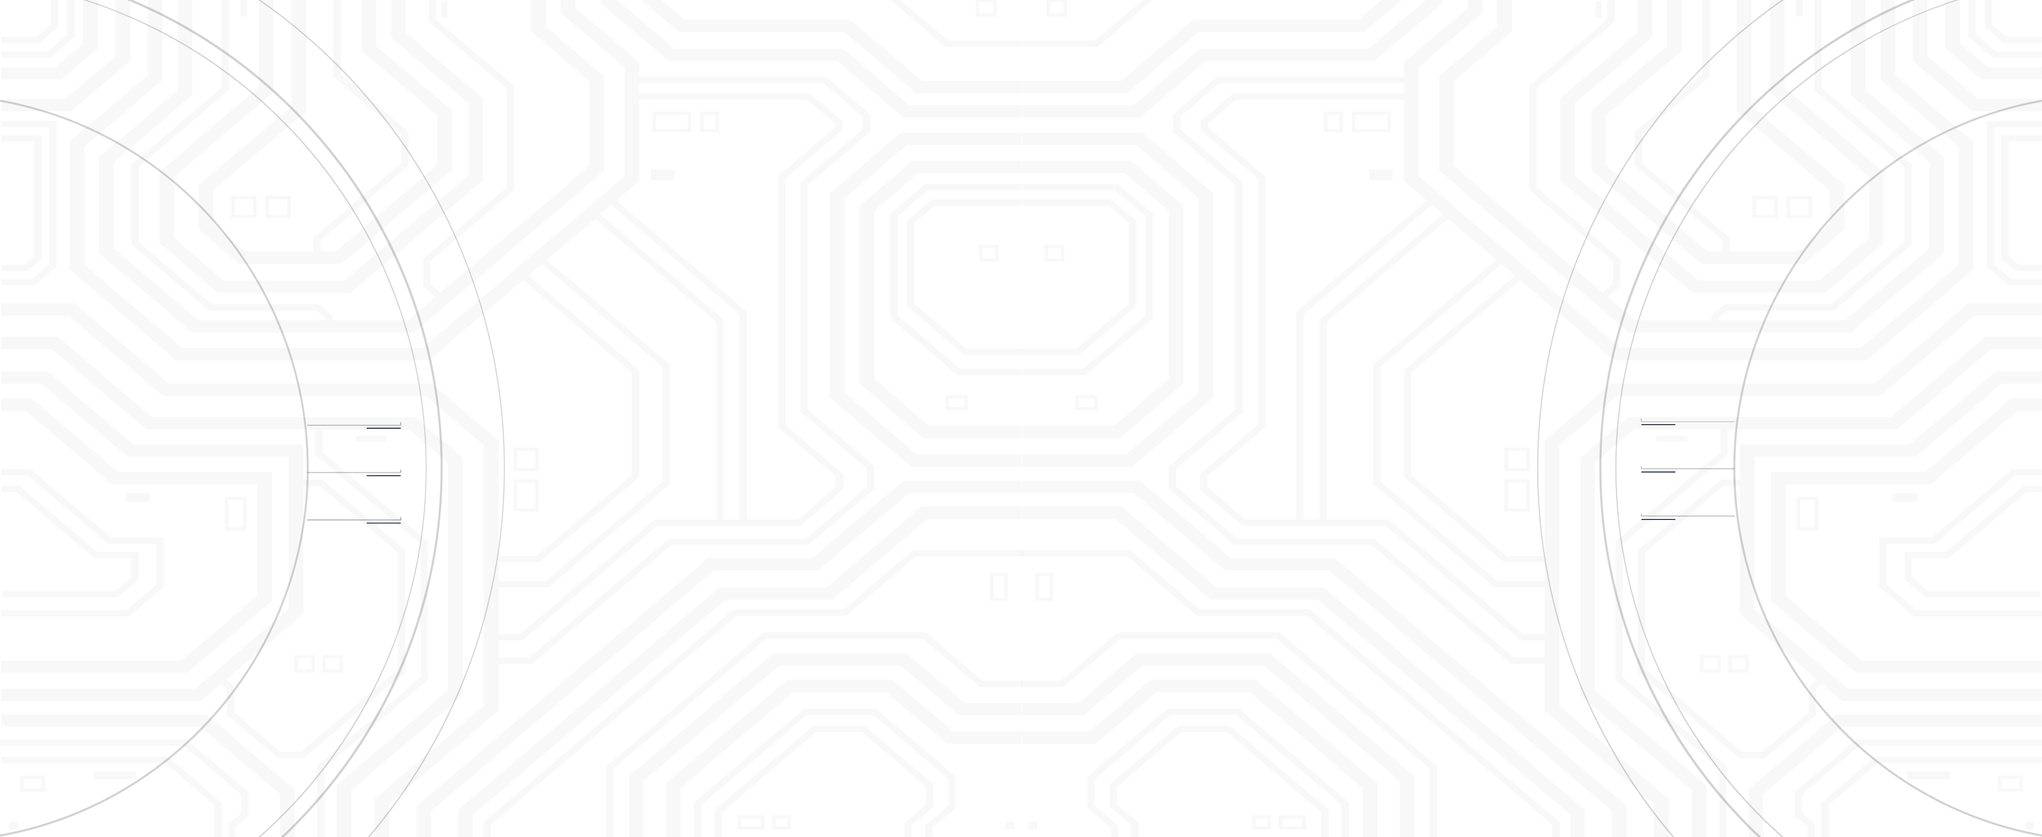
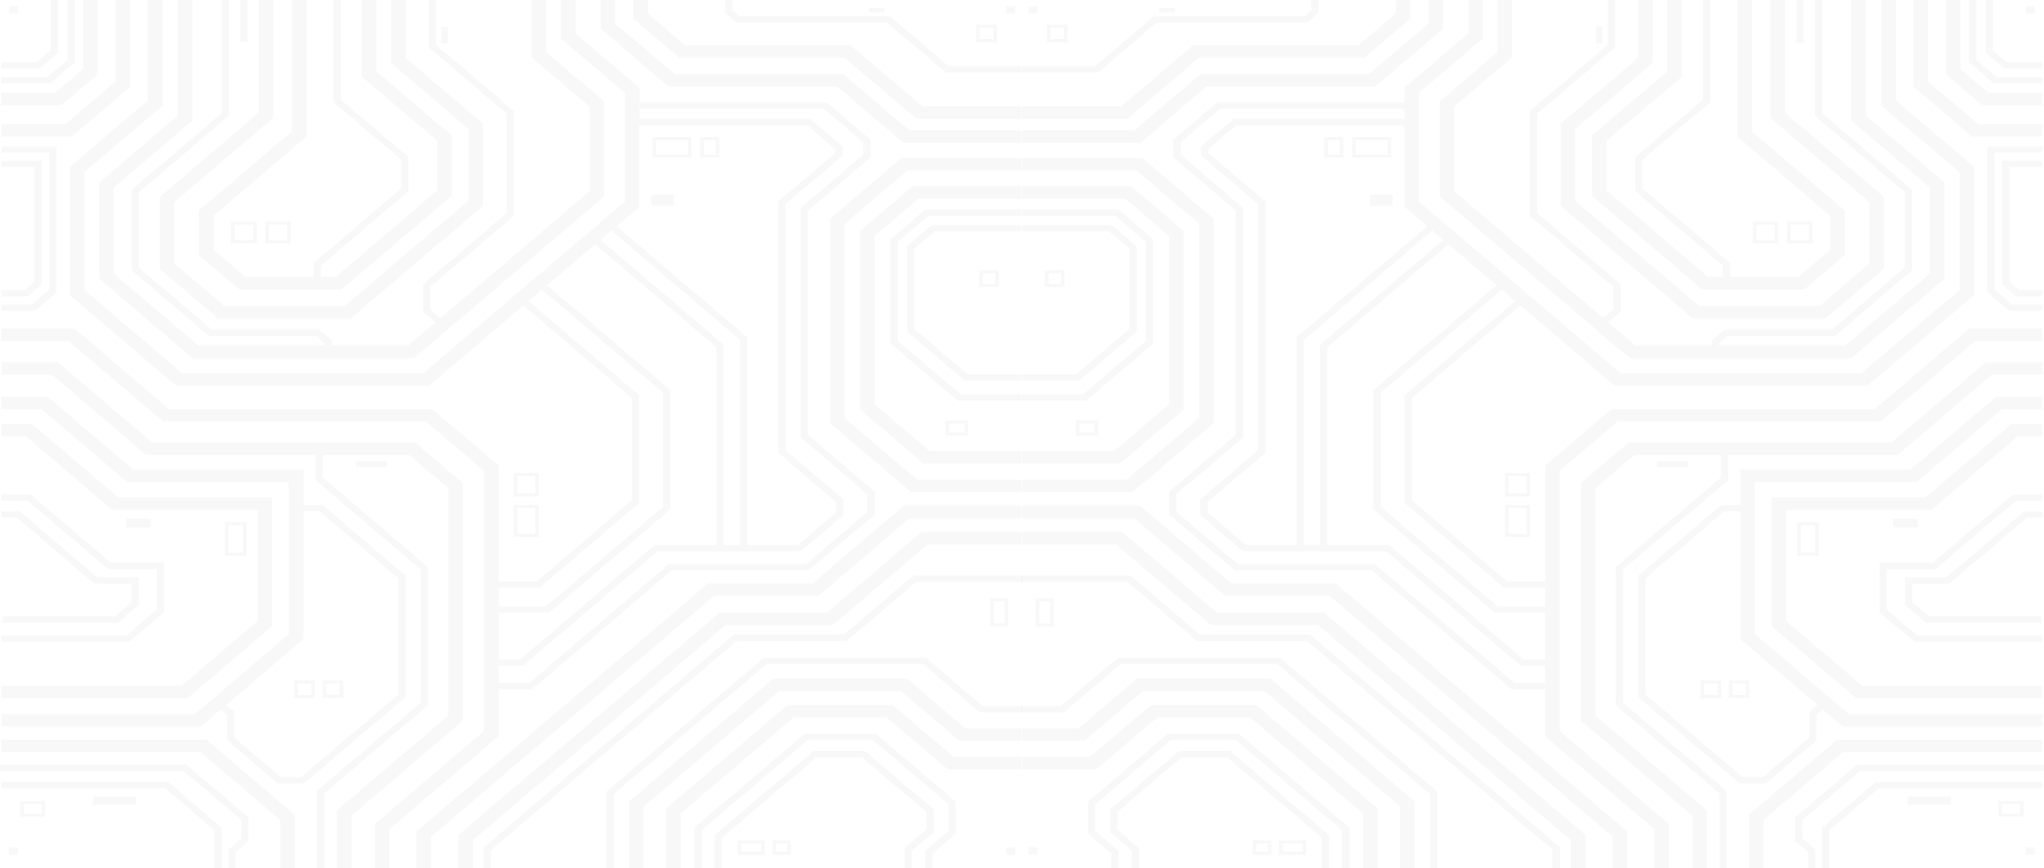
Update: Darkmode End User All

Changed region(s): [[0.9688, 0.9763, 1.0, 1.0], [0.0, 0.9763, 0.0312, 1.0]]

diff --git a/app/resources/js/Components/IconGuest.jsx b/app/resources/js/Components/IconGuest.jsx
@@ -263,46 +263,46 @@ export const LineOrnamenIcon = () => {
 export const WhiteBlueDotMerchIcon = () => {
     return (
         <svg width="53" height="153" viewBox="0 0 53 153" fill="none" xmlns="http://www.w3.org/2000/svg">
-            <rect width="3.21212" height="3.22105" transform="matrix(-1 0 0 1 53 0)" fill="white" />
-            <rect width="3.21212" height="3.22105" transform="matrix(-1 0 0 1 53 16.6421)" fill="white" />
-            <rect width="3.21212" height="3.22105" transform="matrix(-1 0 0 1 53 33.2842)" fill="white" />
-            <rect width="3.21212" height="3.22105" transform="matrix(-1 0 0 1 53 49.9263)" fill="white" />
-            <rect width="3.21212" height="3.22105" transform="matrix(-1 0 0 1 53 66.5684)" fill="white" />
-            <rect width="3.21212" height="3.22105" transform="matrix(-1 0 0 1 36.4041 0)" fill="white" />
-            <rect width="3.21212" height="3.22105" transform="matrix(-1 0 0 1 36.4041 16.6421)" fill="white" />
-            <rect width="3.21212" height="3.22105" transform="matrix(-1 0 0 1 36.4041 33.2842)" fill="white" />
-            <rect width="3.21212" height="3.22105" transform="matrix(-1 0 0 1 36.4041 49.9263)" fill="white" />
-            <rect width="3.21212" height="3.22105" transform="matrix(-1 0 0 1 36.4041 66.5684)" fill="white" />
-            <rect width="3.21212" height="3.22105" transform="matrix(-1 0 0 1 19.8081 0)" fill="white" />
-            <rect width="3.21212" height="3.22105" transform="matrix(-1 0 0 1 19.8081 16.6421)" fill="white" />
-            <rect width="3.21212" height="3.22105" transform="matrix(-1 0 0 1 19.8081 33.2842)" fill="white" />
-            <rect width="3.21212" height="3.22105" transform="matrix(-1 0 0 1 19.8081 49.9263)" fill="white" />
-            <rect width="3.21212" height="3.22105" transform="matrix(-1 0 0 1 19.8081 66.5684)" fill="white" />
-            <rect width="3.21212" height="3.22105" transform="matrix(-1 0 0 1 3.2121 0)" fill="white" />
-            <rect width="3.21212" height="3.22105" transform="matrix(-1 0 0 1 3.2121 16.6421)" fill="white" />
-            <rect width="3.21212" height="3.22105" transform="matrix(-1 0 0 1 3.2121 33.2842)" fill="white" />
-            <rect width="3.21212" height="3.22105" transform="matrix(-1 0 0 1 3.2121 49.9263)" fill="white" />
-            <rect width="3.21212" height="3.22105" transform="matrix(-1 0 0 1 3.2121 66.5684)" fill="white" />
-            <rect width="3.21212" height="3.22105" transform="matrix(-1 0 0 1 53 83.2105)" fill="white" />
-            <rect width="3.21212" height="3.22105" transform="matrix(-1 0 0 1 53 99.8527)" fill="white" />
-            <rect width="3.21212" height="3.22105" transform="matrix(-1 0 0 1 53 116.495)" fill="white" />
-            <rect width="3.21212" height="3.22105" transform="matrix(-1 0 0 1 53 133.137)" fill="white" />
-            <rect width="3.21212" height="3.22105" transform="matrix(-1 0 0 1 53 149.779)" fill="white" />
-            <rect width="3.21212" height="3.22105" transform="matrix(-1 0 0 1 36.4041 83.2105)" fill="white" />
-            <rect width="3.21212" height="3.22105" transform="matrix(-1 0 0 1 36.4041 99.8527)" fill="white" />
-            <rect width="3.21212" height="3.22105" transform="matrix(-1 0 0 1 36.4041 116.495)" fill="white" />
-            <rect width="3.21212" height="3.22105" transform="matrix(-1 0 0 1 36.4041 133.137)" fill="white" />
-            <rect width="3.21212" height="3.22105" transform="matrix(-1 0 0 1 36.4041 149.779)" fill="white" />
-            <rect width="3.21212" height="3.22105" transform="matrix(-1 0 0 1 19.8081 83.2105)" fill="white" />
-            <rect width="3.21212" height="3.22105" transform="matrix(-1 0 0 1 19.8081 99.8527)" fill="white" />
-            <rect width="3.21212" height="3.22105" transform="matrix(-1 0 0 1 19.8081 116.495)" fill="white" />
-            <rect width="3.21212" height="3.22105" transform="matrix(-1 0 0 1 19.8081 133.137)" fill="white" />
-            <rect width="3.21212" height="3.22105" transform="matrix(-1 0 0 1 19.8081 149.779)" fill="white" />
-            <rect width="3.21212" height="3.22105" transform="matrix(-1 0 0 1 3.2121 83.2105)" fill="white" />
-            <rect width="3.21212" height="3.22105" transform="matrix(-1 0 0 1 3.2121 99.8527)" fill="white" />
-            <rect width="3.21212" height="3.22105" transform="matrix(-1 0 0 1 3.2121 116.495)" fill="white" />
-            <rect width="3.21212" height="3.22105" transform="matrix(-1 0 0 1 3.2121 133.137)" fill="white" />
-            <rect width="3.21212" height="3.22105" transform="matrix(-1 0 0 1 3.2121 149.779)" fill="white" />
+            <rect width="3.21212" height="3.22105" transform="matrix(-1 0 0 1 53 0)" fill="currentColor" />
+            <rect width="3.21212" height="3.22105" transform="matrix(-1 0 0 1 53 16.6421)" fill="currentColor" />
+            <rect width="3.21212" height="3.22105" transform="matrix(-1 0 0 1 53 33.2842)" fill="currentColor" />
+            <rect width="3.21212" height="3.22105" transform="matrix(-1 0 0 1 53 49.9263)" fill="currentColor" />
+            <rect width="3.21212" height="3.22105" transform="matrix(-1 0 0 1 53 66.5684)" fill="currentColor" />
+            <rect width="3.21212" height="3.22105" transform="matrix(-1 0 0 1 36.4041 0)" fill="currentColor" />
+            <rect width="3.21212" height="3.22105" transform="matrix(-1 0 0 1 36.4041 16.6421)" fill="currentColor" />
+            <rect width="3.21212" height="3.22105" transform="matrix(-1 0 0 1 36.4041 33.2842)" fill="currentColor" />
+            <rect width="3.21212" height="3.22105" transform="matrix(-1 0 0 1 36.4041 49.9263)" fill="currentColor" />
+            <rect width="3.21212" height="3.22105" transform="matrix(-1 0 0 1 36.4041 66.5684)" fill="currentColor" />
+            <rect width="3.21212" height="3.22105" transform="matrix(-1 0 0 1 19.8081 0)" fill="currentColor" />
+            <rect width="3.21212" height="3.22105" transform="matrix(-1 0 0 1 19.8081 16.6421)" fill="currentColor" />
+            <rect width="3.21212" height="3.22105" transform="matrix(-1 0 0 1 19.8081 33.2842)" fill="currentColor" />
+            <rect width="3.21212" height="3.22105" transform="matrix(-1 0 0 1 19.8081 49.9263)" fill="currentColor" />
+            <rect width="3.21212" height="3.22105" transform="matrix(-1 0 0 1 19.8081 66.5684)" fill="currentColor" />
+            <rect width="3.21212" height="3.22105" transform="matrix(-1 0 0 1 3.2121 0)" fill="currentColor" />
+            <rect width="3.21212" height="3.22105" transform="matrix(-1 0 0 1 3.2121 16.6421)" fill="currentColor" />
+            <rect width="3.21212" height="3.22105" transform="matrix(-1 0 0 1 3.2121 33.2842)" fill="currentColor" />
+            <rect width="3.21212" height="3.22105" transform="matrix(-1 0 0 1 3.2121 49.9263)" fill="currentColor" />
+            <rect width="3.21212" height="3.22105" transform="matrix(-1 0 0 1 3.2121 66.5684)" fill="currentColor" />
+            <rect width="3.21212" height="3.22105" transform="matrix(-1 0 0 1 53 83.2105)" fill="currentColor" />
+            <rect width="3.21212" height="3.22105" transform="matrix(-1 0 0 1 53 99.8527)" fill="currentColor" />
+            <rect width="3.21212" height="3.22105" transform="matrix(-1 0 0 1 53 116.495)" fill="currentColor" />
+            <rect width="3.21212" height="3.22105" transform="matrix(-1 0 0 1 53 133.137)" fill="currentColor" />
+            <rect width="3.21212" height="3.22105" transform="matrix(-1 0 0 1 53 149.779)" fill="currentColor" />
+            <rect width="3.21212" height="3.22105" transform="matrix(-1 0 0 1 36.4041 83.2105)" fill="currentColor" />
+            <rect width="3.21212" height="3.22105" transform="matrix(-1 0 0 1 36.4041 99.8527)" fill="currentColor" />
+            <rect width="3.21212" height="3.22105" transform="matrix(-1 0 0 1 36.4041 116.495)" fill="currentColor" />
+            <rect width="3.21212" height="3.22105" transform="matrix(-1 0 0 1 36.4041 133.137)" fill="currentColor" />
+            <rect width="3.21212" height="3.22105" transform="matrix(-1 0 0 1 36.4041 149.779)" fill="currentColor" />
+            <rect width="3.21212" height="3.22105" transform="matrix(-1 0 0 1 19.8081 83.2105)" fill="currentColor" />
+            <rect width="3.21212" height="3.22105" transform="matrix(-1 0 0 1 19.8081 99.8527)" fill="currentColor" />
+            <rect width="3.21212" height="3.22105" transform="matrix(-1 0 0 1 19.8081 116.495)" fill="currentColor" />
+            <rect width="3.21212" height="3.22105" transform="matrix(-1 0 0 1 19.8081 133.137)" fill="currentColor" />
+            <rect width="3.21212" height="3.22105" transform="matrix(-1 0 0 1 19.8081 149.779)" fill="currentColor" />
+            <rect width="3.21212" height="3.22105" transform="matrix(-1 0 0 1 3.2121 83.2105)" fill="currentColor" />
+            <rect width="3.21212" height="3.22105" transform="matrix(-1 0 0 1 3.2121 99.8527)" fill="currentColor" />
+            <rect width="3.21212" height="3.22105" transform="matrix(-1 0 0 1 3.2121 116.495)" fill="currentColor" />
+            <rect width="3.21212" height="3.22105" transform="matrix(-1 0 0 1 3.2121 133.137)" fill="currentColor" />
+            <rect width="3.21212" height="3.22105" transform="matrix(-1 0 0 1 3.2121 149.779)" fill="currentColor" />
         </svg>
     );
 }

diff --git a/app/resources/js/Pages/Landing/Welcome.jsx b/app/resources/js/Pages/Landing/Welcome.jsx
@@ -10,6 +10,8 @@ import { Button } from "@/Components/ui/button";
 import { SideLeftArrowLeftIcon, SideLeftCrookedCrossIcon, SideRightBlueDotIcon, SideRightCrossIcon, WhiteBlueDotMerchIcon } from "@/Components/IconGuest";
 import { motion } from 'framer-motion';
 import { XMarkIcon } from "@heroicons/react/24/solid";
+import * as AOS from 'aos';
+import 'aos/dist/aos.css';
 
 export default function Welcome() {
     const [isPopupOpen, setIsPopupOpen] = useState(false);
@@ -22,17 +24,44 @@ export default function Welcome() {
 
     }, []);
 
+    useEffect(() => {
+        AOS.init({
+            duration: 800,
+            once: false,
+            easing: 'ease-out-cubic',
+            offset: 100,
+            delay: 0,
+            mirror: false,
+            anchorPlacement: 'top-bottom',
+        });
+    }, []);
+
     const closeModal = () => {
         setIsPopupOpen(false);
     };
 
     return (
         <>
-            <Modal show={isPopupOpen} onClose={closeModal} className="px-12 py-12 bg-gradient-to-b from-[#0F114C] to-[#00658F] border-white border-2 relative flex flex-row justify-evenly" maxWidth="4xl">
+            <Modal show={isPopupOpen} onClose={closeModal} className="md:px-12 px-2 md:py-12 py-5 dark:border-white dark:border-2 border-2 relative flex md:flex-row flex-col justify-evenly dark:bg-gradient-to-b dark:from-[#040529] dark:to-[#0F114C]/90" maxWidth="4xl">
+                <img
+                    src="assets/images/bg_ornament.png"
+                    alt="banner"
+                    className="absolute z-0 w-auto object-center rounded-none h-[800px] object-cover hidden md:block top-0"
+                />
+                <img
+                    src="assets/images/bg_circle_ornamen_side_left.png"
+                    alt="banner"
+                    className="absolute z-0 rounded-none w-1/2 h-auto object-cover hidden md:block top-0 left-0 opacity-40"
+                />
+                <img
+                    src="assets/images/bg_circle_ornamen_darkmode_sideleft.png"
+                    alt="banner"
+                    className="absolute z-0 rounded-none w-1/2 h-auto object-cover hidden md:block top-0 left-0 opacity-100 dark:hidden"
+                />
                 <Button onClick={closeModal} variant="none" className="absolute top-4 right-4 group">
-                    <XMarkIcon className="text-white w-6 h-6 font-bold focus-group:font-extrabold"/>
+                    <XMarkIcon className="dark:text-white text-[#0F114C] w-6 h-6 font-bold focus-group:font-extrabold" />
                 </Button>
-                <div className="absolute top-12 left-12 text-white">
+                <div className="absolute md:block hidden top-12 left-12 dark:text-white text-[#0F114C]">
                     <SideRightCrossIcon />
                 </div>
                 <div className="absolute bottom-12 left-96 text-white">
@@ -50,26 +79,26 @@ export default function Welcome() {
                         <SideLeftCrookedCrossIcon />
                     </motion.div>
                 </div>
-                <div className="absolute bottom-12 right-12 text-white opacity-70">
+                <div className="absolute md:block hidden bottom-12 right-12 dark:text-white text-[#0F114C]">
                     <WhiteBlueDotMerchIcon />
                 </div>
                 <div className="flex justify-center items-center">
-                    <img src="assets/images/merch_bundle.png" className="w-[268.88px] h-[301px] object-contain" alt="" />
+                    <img src="assets/images/merch_bundle.png" className="w-[268.88px] h-[301px] object-contain" alt="" data-aos="fade-up" data-aos-delay="100" />
                 </div>
                 <div className="flex flex-col items-center">
-                    <p className="text-white leading-[1.2em] text-[32px] tracking-[0.016em] uppercase font-bold">
+                    <p className="dark:text-white text-[#0F114C] leading-[1.2em] text-[32px] tracking-[0.016em] uppercase font-bold md:text-start text-center" data-aos="fade-up" data-aos-delay="100">
                         MERCHANDISE bundle
                     </p>
-                    <p className="text-[18px] tracking-[0.02em] leading-[1.8em] max-w-[380px] text-center mt-5 text-white font-light">
+                    <p className="text-[18px] tracking-[0.02em] leading-[1.8em] max-w-[380px] text-center md:mt-5 mt-0 text-[#5E5E5E] font-light dark:text-white" data-aos="fade-up" data-aos-delay="100">
                         Get your Exclusive Merchandise Bundle at a special price — limited time only!
                     </p>
-                    <p className="text-[23px] font-medium text-center mt-24 text-[#0F114C] line-through decoration-2">
+                    <p className="text-[23px] font-medium text-center md:mt-24 mt-0 text-[#0886BB] line-through decoration-2" data-aos="fade-up" data-aos-delay="200">
                         Rp. 199.000
                     </p>
-                    <p className="text-[29px] font-medium text-center text-white">
+                    <p className="text-[29px] font-medium text-center dark:text-white text-[#0F114C]" data-aos="fade-up" data-aos-delay="300">
                         Only Rp. 100.000
                     </p>
-                    <Button variant="blue" asChild size="lg" className="mt-5">
+                    <Button variant="blue" asChild size="lg" className="mt-5 tracking-[0.03em]" data-aos="fade-up" data-aos-delay="300">
                         <a href="#">Buy Bundle</a>
                     </Button>
                 </div>

diff --git a/app/resources/js/Pages/Landing/Partials/Merch.jsx b/app/resources/js/Pages/Landing/Partials/Merch.jsx
@@ -40,7 +40,7 @@ export default function Merch() {
                         <p className="font-reguler text-[17px] tracking-[0.04em] leading-[1.5em] text-[#121212] md:w-[427px] max-w-[700px] md:text-start text-center dark:text-white" data-aos="fade-up" data-aos-delay="100">
                             Lorem ipsum dolor sit amet consectetur. Enim sagittis ac quam nunc viverra maecenas semper ullamcorper quis. Facilisi diam tortor bibendum porta.
                         </p>
-                        <div className="flex md:flex-row flex-col md:gap-7 gap-5 justify-center md:justify-start" data-aos="fade-up" data-aos-delay="100">
+                        <div className="flex md:flex-row flex-col md:gap-7 gap-5 justify-center md:justify-start mt-10" data-aos="fade-up" data-aos-delay="100">
                             <Button className="bg-[#0F114C] text-white px-6 py-2 rounded-[10px] font-semibold flex items-center group focus:ring-2 focus:ring-[#0F114C]/80 hover:bg-[#0F114C]/80 focus:transition-all focus:duration-400 focus:ease-in-out" size="lg">
                                 Buy Now
                                 <img src="assets/images/landing/arrow.png" className="inline ml-1 w-3 h-3 transform transition-transform duration-300 group-hover:translate-x-1" alt="" />
@@ -65,6 +65,7 @@ export default function Merch() {
                     <div className="relative">
                         <img src="assets/images/landing/merchBackground.png" alt="" className="w-full h-auto dark:hidden" />
                         <img src="assets/images/landing/merchBackgroundDarkmode.png" alt="" className="w-full h-auto hidden dark:block" />
+
                         <div className="absolute inset-0 flex items-center justify-center">
                             <img
                                 src="assets/images/landing/ITCCmerch.png"

diff --git a/app/resources/js/Pages/Landing/Partials/Home.jsx b/app/resources/js/Pages/Landing/Partials/Home.jsx
@@ -24,7 +24,17 @@ export default function Home() {
             <img
                 src="assets/images/bg_ornament.png"
                 alt="banner"
-                className="absolute z-0 w-auto object-center rounded-none h-[800px] object-cover hidden md:block top-0 opacity-50 dark:opacity-0"
+                className="absolute z-0 w-auto object-center rounded-none h-[800px] object-cover hidden md:block top-0"
+            />
+            <img
+                src="assets/images/bg_circle_ornament.png"
+                alt="banner"
+                className="absolute z-0 rounded-none w-screen h-[800px] object-cover dark:hidden md:block top-0"
+            />
+            <img
+                src="assets/images/bg_circle_ornamen_white.png"
+                alt="banner"
+                className="absolute z-0 rounded-none w-screen h-[800px] object-cover hidden md:block top-0 opacity-40"
             />
             <section className="px-12 md:px-24 md:pb-24 mb-18 md:mt-44 mt-24">
                 <div className="flex flex-row justify-center md:justify-between">
@@ -77,7 +87,7 @@ export default function Home() {
                     {/* side right */}
                     <div className="w-full md:block hidden">
                         <div className="relative">
-                            <div className="flex flex-row justify-end" data-aos="fade-up" data-aos-delay="100">
+                            <div className="flex flex-row justify-end text-[#0F114C]" data-aos="fade-up" data-aos-delay="100">
                                 <SideRightCrossIcon />
                             </div>
                             <div className="absolute top-0 right-32 z-30">

diff --git a/app/resources/js/Pages/Landing/Partials/Sponsor.jsx b/app/resources/js/Pages/Landing/Partials/Sponsor.jsx
@@ -66,11 +66,11 @@ const Sponsor = () => {
 
             <a
                 href="https://wa.me/6281938215645"
-                className="flex flex-row items-center gap-2 text-[#0F114C] font-rubik text-sm sm:text-base md:text-lg font-normal leading-[120%] tracking-[0.02em] underline decoration-solid decoration-[#0F114C] decoration-1 underline-offset-[2px]"
+                className="flex flex-row items-center gap-2 text-[#0F114C] font-rubik text-sm sm:text-base md:text-lg font-normal leading-[120%] tracking-[0.02em] underline decoration-solid decoration-[#0F114C] decoration-1 underline-offset-[2px] dark:text-gray-500"
                 data-aos="fade-up" data-aos-delay="200"
                 target="_blank"
             >
-                Contact us to become a sponsor <ArrowRightIcon className="w-6 h-6" />
+                Contact us to become a sponsor <ArrowRightIcon className="w-6 h-6 dark:text-gray-500" />
             </a>
 
             {/* Sponsor Slider */}

diff --git a/app/resources/js/Layouts/Partials/Navbar.jsx b/app/resources/js/Layouts/Partials/Navbar.jsx
@@ -183,7 +183,7 @@ export default function NavBar({ auth, competitions }) {
                 </div>
                 {openNav == true && (
                     <div className="mt-10">
-                        <div className="flex flex-col bg-white gap-5 justify-start px-5">
+                        <div className="flex flex-col gap-5 justify-start px-5">
                             <Link
                                 href={route('welcome')}
                             >
@@ -225,7 +225,7 @@ export default function NavBar({ auth, competitions }) {
                             </Link>
                         </div>
 
-                        <div className="flex flex-row gap-5 pt-5 justify-start bg-white">
+                        <div className="flex flex-row gap-5 pt-5 justify-start">
                             {auth ? (
                                 <DropdownMenu>
                                     <DropdownMenuTrigger asChild>

diff --git a/app/resources/js/Pages/Merchandise.jsx b/app/resources/js/Pages/Merchandise.jsx
@@ -30,6 +30,16 @@ function Merchandise({ ...props }) {
                 alt="banner"
                 className="absolute z-0 w-auto object-center rounded-none h-screen object-cover hidden md:block top-0 opacity-60 dark:opacity-0"
             />
+            <img
+                src="assets/images/bg_circle_ornament.png"
+                alt="banner"
+                className="absolute z-0 rounded-none w-screen h-[800px] object-cover dark:hidden md:block top-0"
+            />
+            <img
+                src="assets/images/bg_circle_ornamen_white.png"
+                alt="banner"
+                className="absolute z-0 rounded-none w-screen h-[800px] object-cover hidden md:block top-0 opacity-60"
+            />
             <div className="isolate min-h-screen md:mt-24">
                 <div className="relative md:px-24 px-10">
                     <div

diff --git a/app/resources/js/Layouts/Partials/Sidebar.jsx b/app/resources/js/Layouts/Partials/Sidebar.jsx
@@ -190,7 +190,7 @@ export default function Sidebar({ navigations, children, header, description }) 
                             </div>
 
                             <div className="divider flex h-[2px] w-auto bg-slate-200 dark:bg-slate-600 md:hidden md:w-full"></div>
-                            <ThemeSwitcher />
+                            {/* <ThemeSwitcher /> */}
                             <DropdownMenu>
                                 <DropdownMenuTrigger asChild>
                                     <p className='cursor-pointer flex flex-row gap-2 justify-center items-center text-gray-800 dark:text-gray-200'>

diff --git a/app/resources/js/Pages/Competition/Front/Register.jsx b/app/resources/js/Pages/Competition/Front/Register.jsx
@@ -8,7 +8,7 @@ function Register() {
     console.log('cek slug', slug);
     return (
         <>
-            <Button variant="blue" asChild>
+            <Button variant="blue" asChild className="mt-24">
                 <Link
                     href={route('register.competition.team.show', { competition: slug })}
                 >

diff --git a/app/resources/js/Pages/Competition/Front/RegisterTeam.jsx b/app/resources/js/Pages/Competition/Front/RegisterTeam.jsx
@@ -33,7 +33,7 @@ function RegisterTeam() {
 
     return (
         <>
-            <form onSubmit={(e) => onHandleSubmit(e)}>
+            <form onSubmit={(e) => onHandleSubmit(e)} className="mt-24">
 
 
                 <div className="mt-6">
